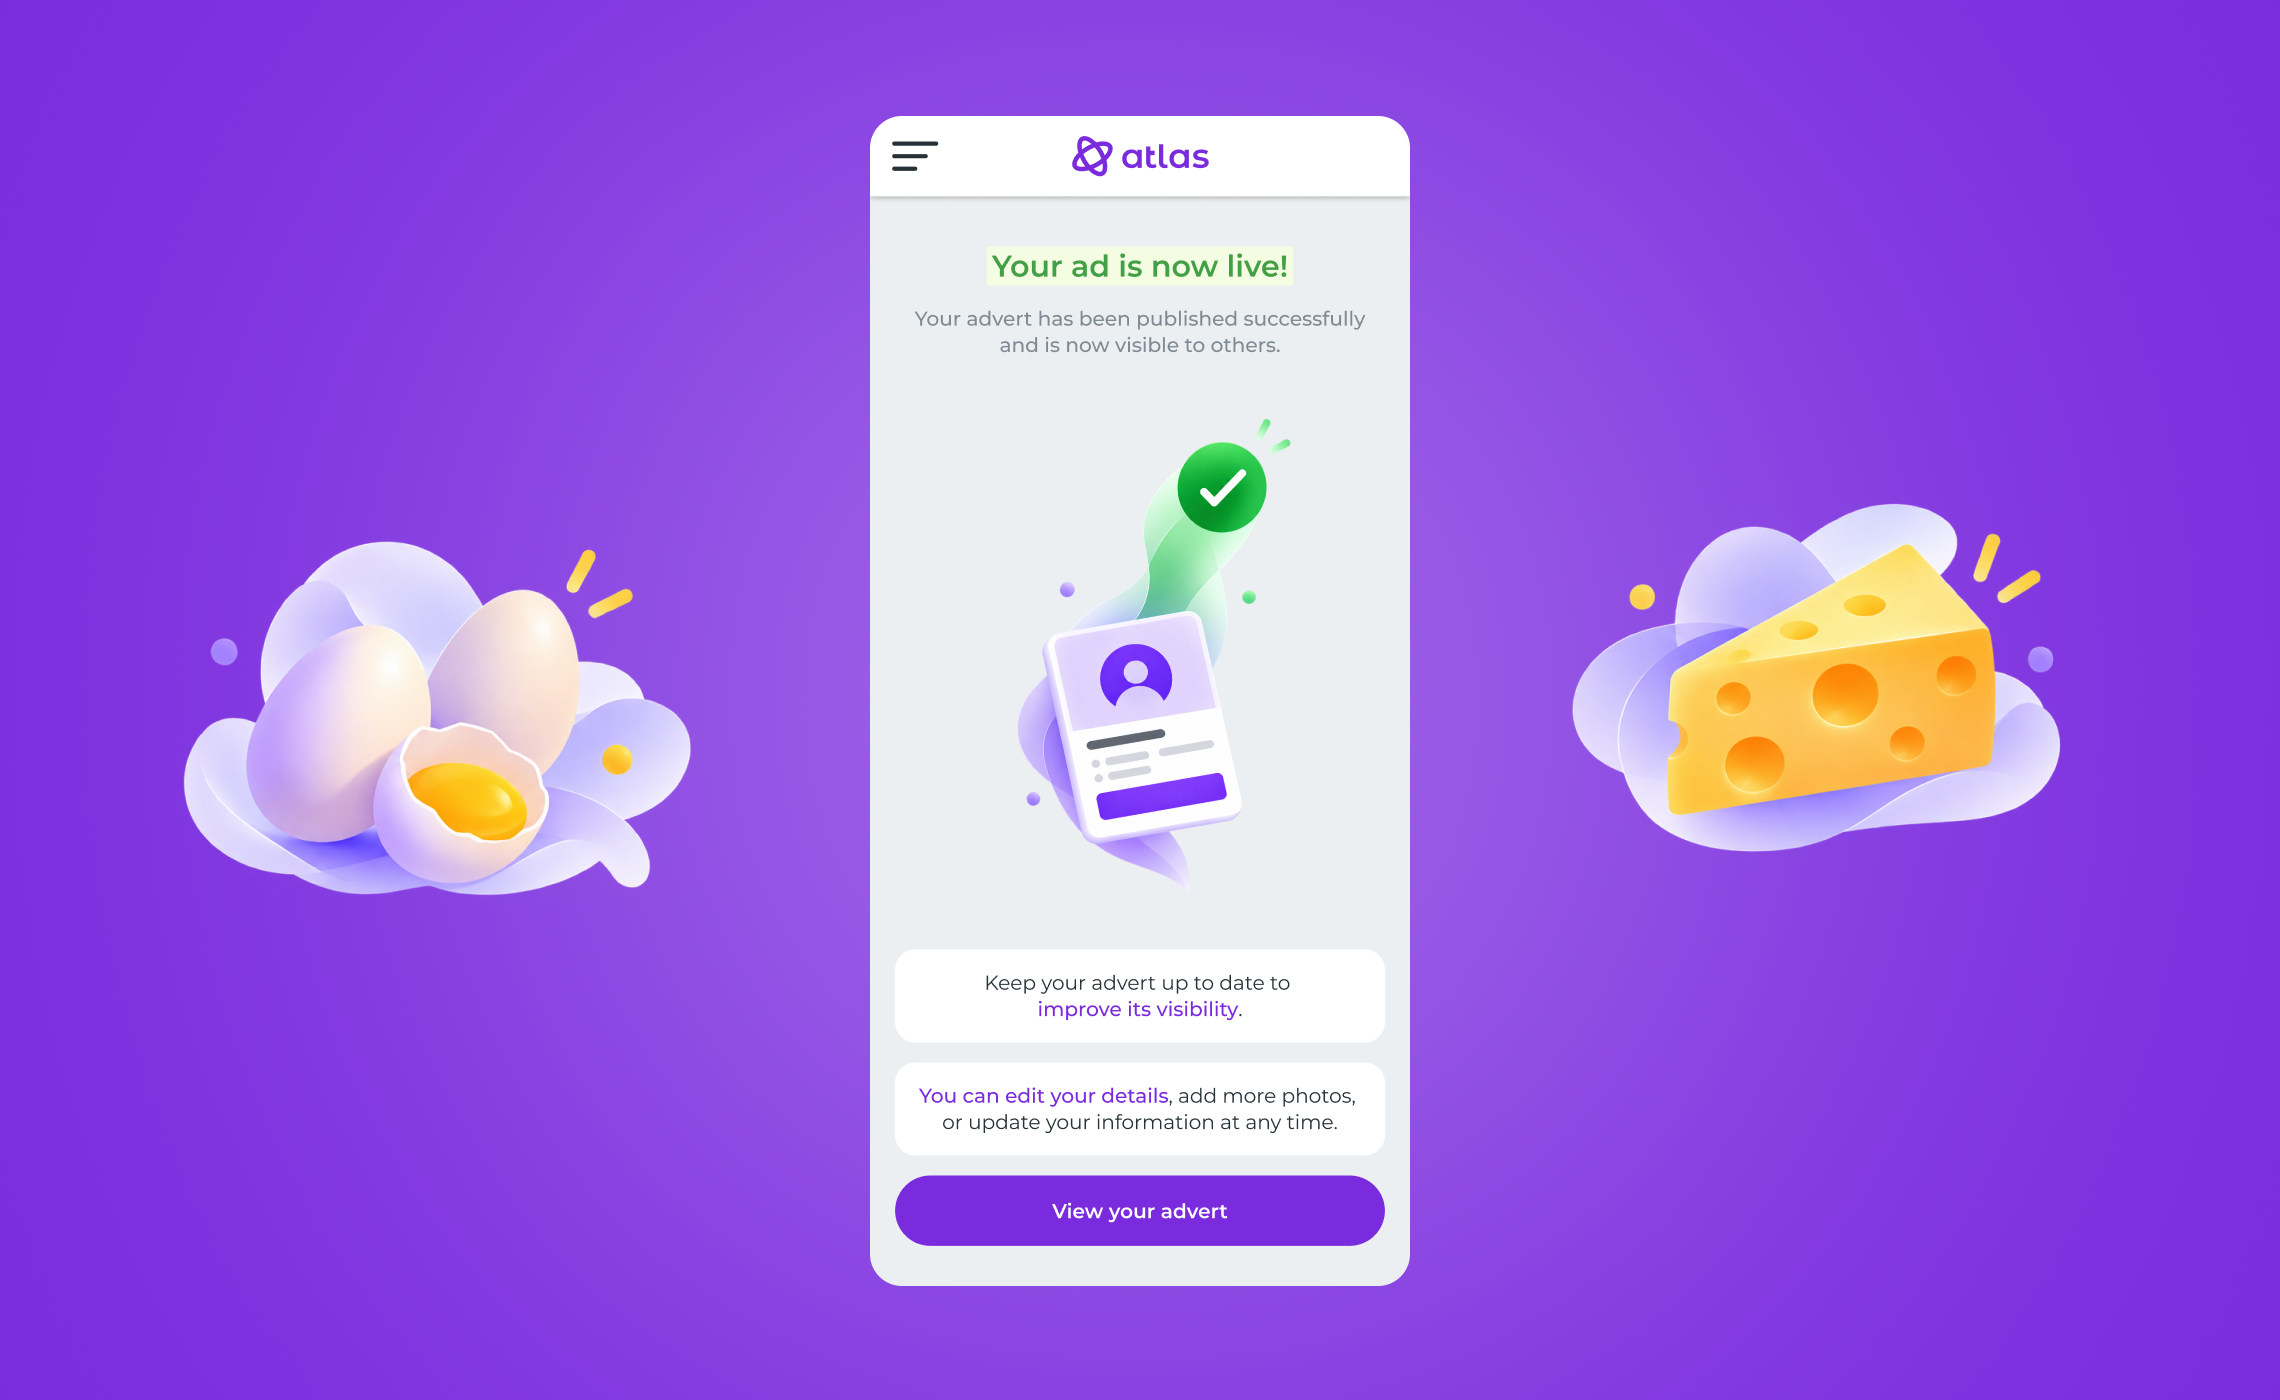
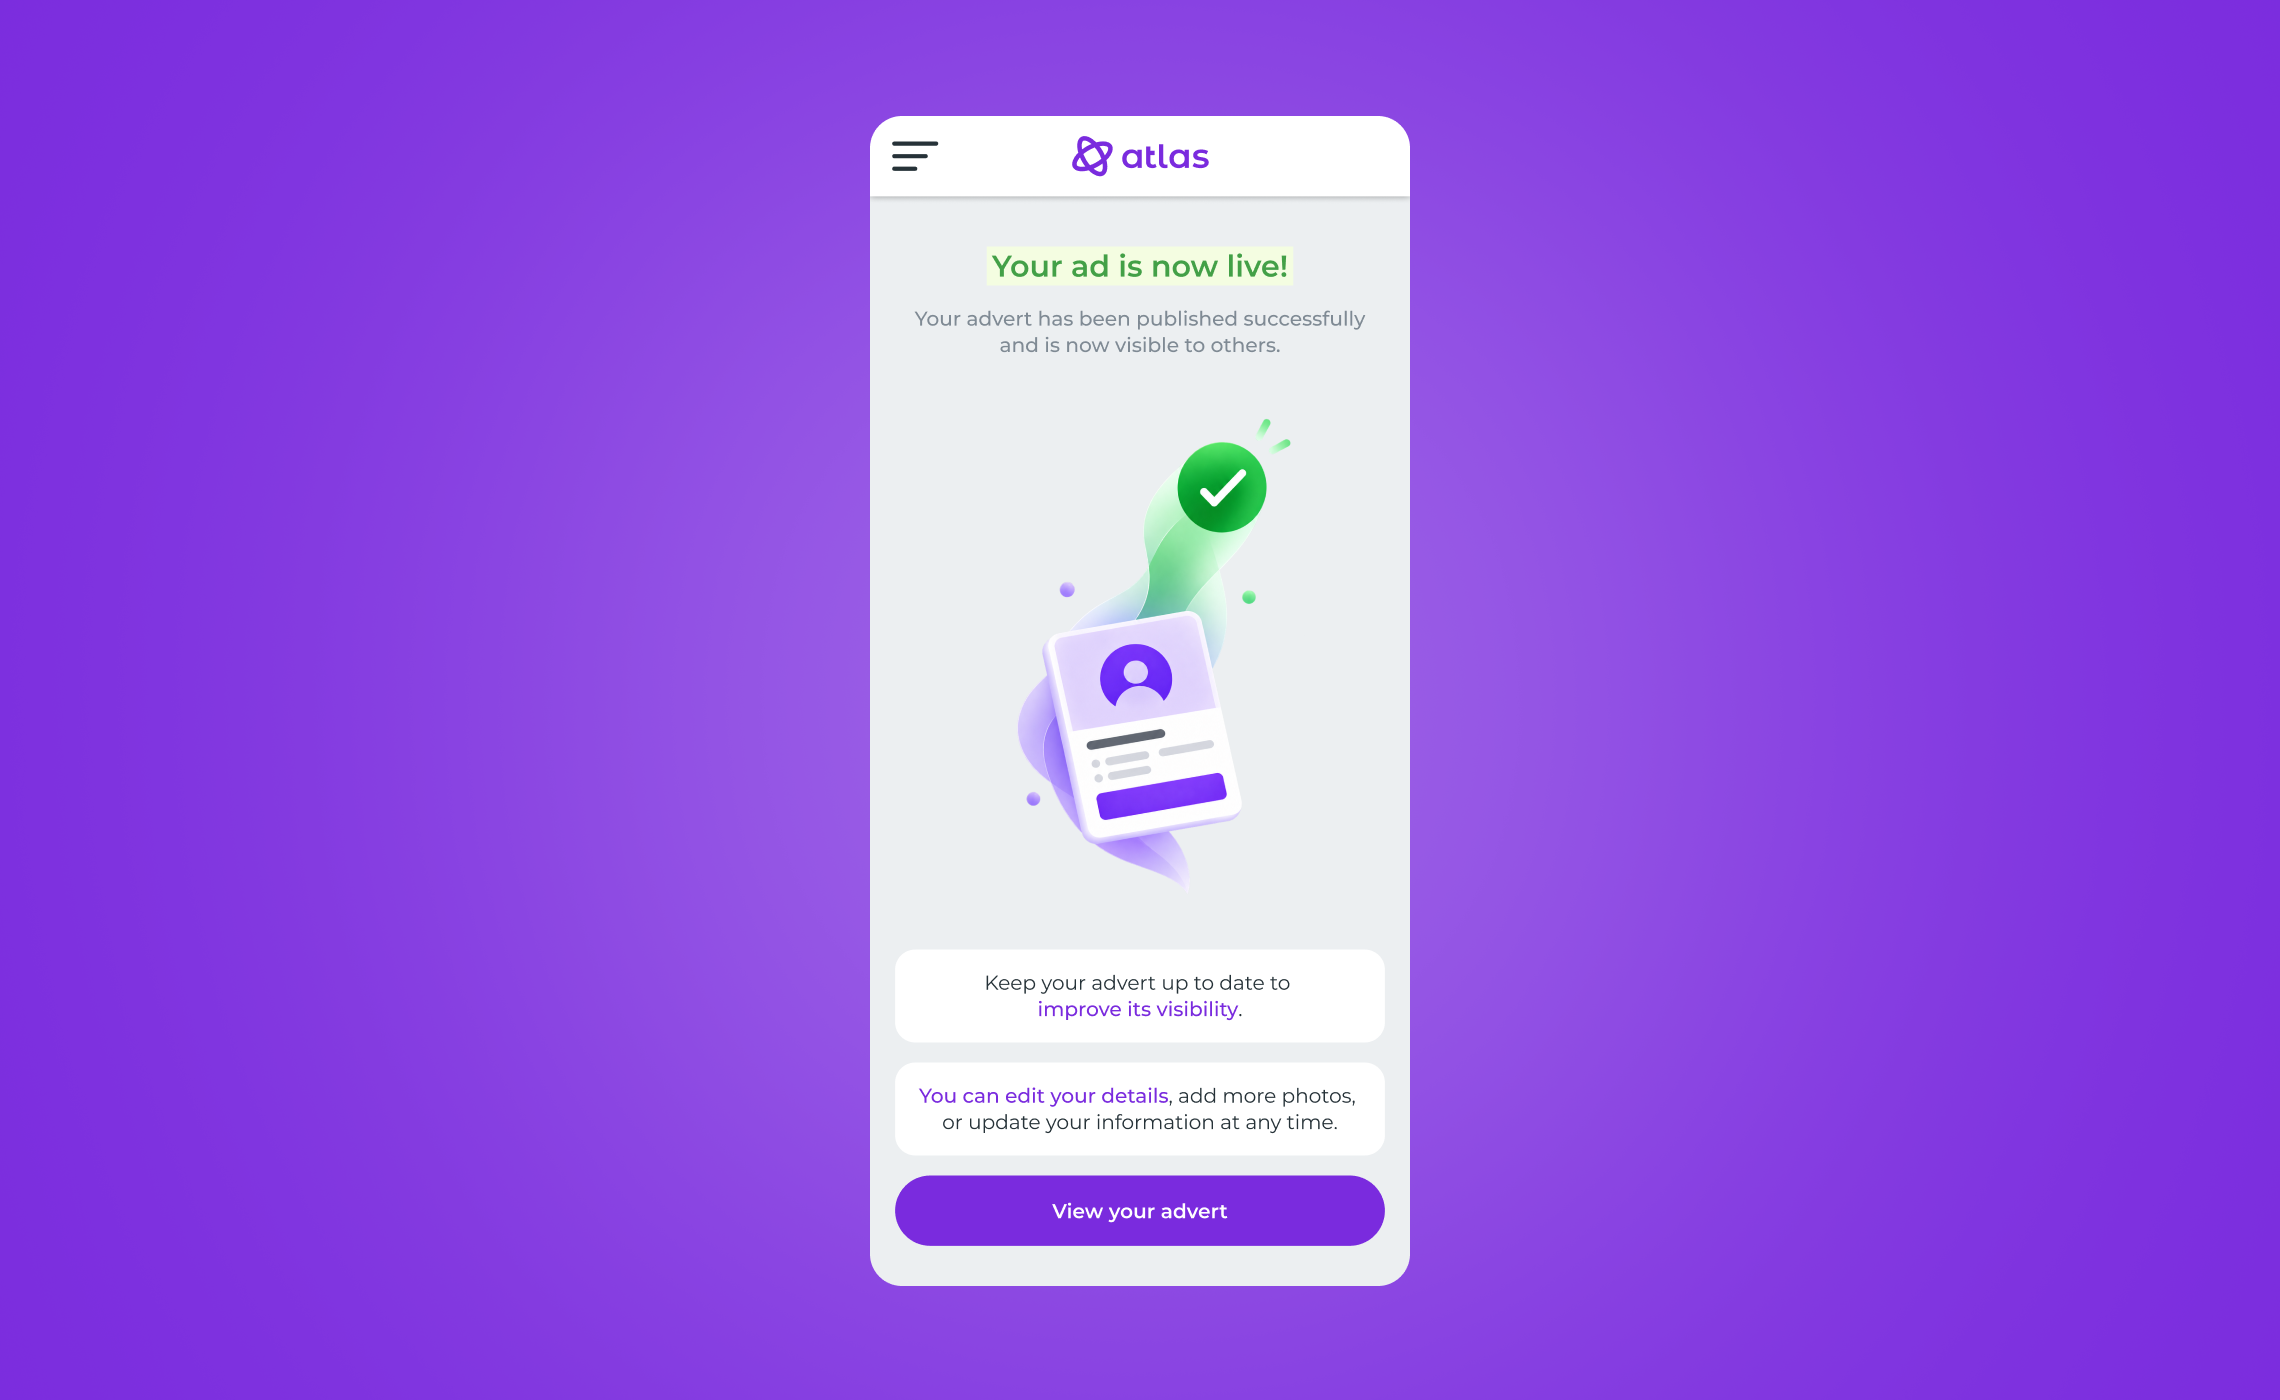
Update final Atlas case image from supplied original

Changed region(s): [[0.0623, 0.3686, 0.3114, 0.645], [0.6851, 0.3379, 0.9031, 0.6143]]

diff --git a/es/case-atlas.html b/es/case-atlas.html
@@ -124,7 +124,7 @@
         <figure><a class="case-media-link" href="assets/images/Atlas/Case-Atlas-02.png?v=656d0b42af70" aria-haspopup="dialog" aria-controls="case-image-viewer" aria-label="Ampliar: Pantalla de información básica del registro de Atlas, con un campo de nombre profesional y una ilustración decorativa." title="Ampliar imagen"><img src="assets/images/Atlas/Case-Atlas-02.png?v=656d0b42af70" alt="Pantalla de información básica del registro de Atlas, con un campo de nombre profesional y una ilustración decorativa." width="2280" height="1400" loading="lazy"></a></figure>
         <figure><a class="case-media-link" href="assets/images/Atlas/Case-Atlas-03.png?v=ac22aab2869a" aria-haspopup="dialog" aria-controls="case-image-viewer" aria-label="Ampliar: Pantallas de Atlas para seleccionar servicios, moneda y tarifas durante el registro internacional." title="Ampliar imagen"><img src="assets/images/Atlas/Case-Atlas-03.png?v=ac22aab2869a" alt="Pantallas de Atlas para seleccionar servicios, moneda y tarifas durante el registro internacional." width="2280" height="1400" loading="lazy"></a></figure>
         <figure><a class="case-media-link" href="assets/images/Atlas/Case-Atlas-04.png?v=606194017bc4" aria-haspopup="dialog" aria-controls="case-image-viewer" aria-label="Ampliar: Pantallas de Atlas para seleccionar la identidad de género y completar el registro." title="Ampliar imagen"><img src="assets/images/Atlas/Case-Atlas-04.png?v=606194017bc4" alt="Pantallas de Atlas para seleccionar la identidad de género y completar el registro." width="2280" height="1400" loading="lazy"></a></figure>
-        <figure><a class="case-media-link" href="assets/images/Atlas/Case-Atlas-05.png?v=b730310460e8" aria-haspopup="dialog" aria-controls="case-image-viewer" aria-label="Ampliar: Confirmación de publicación de un anuncio en Atlas, con indicaciones para completar el perfil y acceder a la página personal." title="Ampliar imagen"><img src="assets/images/Atlas/Case-Atlas-05.png?v=b730310460e8" alt="Confirmación de publicación de un anuncio en Atlas, con indicaciones para completar el perfil y acceder a la página personal." width="2280" height="1400" loading="lazy"></a></figure>
+        <figure><a class="case-media-link" href="assets/images/Atlas/Case-Atlas-05.png?v=4de283d6bb65" aria-haspopup="dialog" aria-controls="case-image-viewer" aria-label="Ampliar: Confirmación de publicación de un anuncio en Atlas, con indicaciones para completar el perfil y acceder a la página personal." title="Ampliar imagen"><img src="assets/images/Atlas/Case-Atlas-05.png?v=4de283d6bb65" alt="Confirmación de publicación de un anuncio en Atlas, con indicaciones para completar el perfil y acceder a la página personal." width="2280" height="1400" loading="lazy"></a></figure>
       </section>
     </main>
 

diff --git a/case-atlas.html b/case-atlas.html
@@ -123,7 +123,7 @@
         <figure><a class="case-media-link" href="assets/images/Atlas/Case-Atlas-02.png?v=656d0b42af70" aria-haspopup="dialog" aria-controls="case-image-viewer" aria-label="Ampliar: Tela de informações básicas do cadastro Atlas, com campo de nome profissional e ilustração decorativa." title="Ampliar imagem"><img src="assets/images/Atlas/Case-Atlas-02.png?v=656d0b42af70" alt="Tela de informações básicas do cadastro Atlas, com campo de nome profissional e ilustração decorativa." width="2280" height="1400" loading="lazy"></a></figure>
         <figure><a class="case-media-link" href="assets/images/Atlas/Case-Atlas-03.png?v=ac22aab2869a" aria-haspopup="dialog" aria-controls="case-image-viewer" aria-label="Ampliar: Telas Atlas para selecionar serviços, moeda e valores durante o cadastro internacional." title="Ampliar imagem"><img src="assets/images/Atlas/Case-Atlas-03.png?v=ac22aab2869a" alt="Telas Atlas para selecionar serviços, moeda e valores durante o cadastro internacional." width="2280" height="1400" loading="lazy"></a></figure>
         <figure><a class="case-media-link" href="assets/images/Atlas/Case-Atlas-04.png?v=606194017bc4" aria-haspopup="dialog" aria-controls="case-image-viewer" aria-label="Ampliar: Telas Atlas para selecionar a identidade de gênero e concluir o cadastro." title="Ampliar imagem"><img src="assets/images/Atlas/Case-Atlas-04.png?v=606194017bc4" alt="Telas Atlas para selecionar a identidade de gênero e concluir o cadastro." width="2280" height="1400" loading="lazy"></a></figure>
-        <figure><a class="case-media-link" href="assets/images/Atlas/Case-Atlas-05.png?v=b730310460e8" aria-haspopup="dialog" aria-controls="case-image-viewer" aria-label="Ampliar: Confirmação de anúncio publicado no Atlas, com orientações para completar o perfil e acessar a página pessoal." title="Ampliar imagem"><img src="assets/images/Atlas/Case-Atlas-05.png?v=b730310460e8" alt="Confirmação de anúncio publicado no Atlas, com orientações para completar o perfil e acessar a página pessoal." width="2280" height="1400" loading="lazy"></a></figure>
+        <figure><a class="case-media-link" href="assets/images/Atlas/Case-Atlas-05.png?v=4de283d6bb65" aria-haspopup="dialog" aria-controls="case-image-viewer" aria-label="Ampliar: Confirmação de anúncio publicado no Atlas, com orientações para completar o perfil e acessar a página pessoal." title="Ampliar imagem"><img src="assets/images/Atlas/Case-Atlas-05.png?v=4de283d6bb65" alt="Confirmação de anúncio publicado no Atlas, com orientações para completar o perfil e acessar a página pessoal." width="2280" height="1400" loading="lazy"></a></figure>
       </section>
     </main>
 

diff --git a/en/case-atlas.html b/en/case-atlas.html
@@ -124,7 +124,7 @@
         <figure><a class="case-media-link" href="assets/images/Atlas/Case-Atlas-02.png?v=656d0b42af70" aria-haspopup="dialog" aria-controls="case-image-viewer" aria-label="Enlarge: Atlas registration basic information screen with a professional name field and a decorative illustration." title="Enlarge image"><img src="assets/images/Atlas/Case-Atlas-02.png?v=656d0b42af70" alt="Atlas registration basic information screen with a professional name field and a decorative illustration." width="2280" height="1400" loading="lazy"></a></figure>
         <figure><a class="case-media-link" href="assets/images/Atlas/Case-Atlas-03.png?v=ac22aab2869a" aria-haspopup="dialog" aria-controls="case-image-viewer" aria-label="Enlarge: Atlas screens for selecting services, currency, and rates during international registration." title="Enlarge image"><img src="assets/images/Atlas/Case-Atlas-03.png?v=ac22aab2869a" alt="Atlas screens for selecting services, currency, and rates during international registration." width="2280" height="1400" loading="lazy"></a></figure>
         <figure><a class="case-media-link" href="assets/images/Atlas/Case-Atlas-04.png?v=606194017bc4" aria-haspopup="dialog" aria-controls="case-image-viewer" aria-label="Enlarge: Atlas screens for selecting gender identity and completing registration." title="Enlarge image"><img src="assets/images/Atlas/Case-Atlas-04.png?v=606194017bc4" alt="Atlas screens for selecting gender identity and completing registration." width="2280" height="1400" loading="lazy"></a></figure>
-        <figure><a class="case-media-link" href="assets/images/Atlas/Case-Atlas-05.png?v=b730310460e8" aria-haspopup="dialog" aria-controls="case-image-viewer" aria-label="Enlarge: Atlas ad publication confirmation with guidance on completing the profile and accessing the personal page." title="Enlarge image"><img src="assets/images/Atlas/Case-Atlas-05.png?v=b730310460e8" alt="Atlas ad publication confirmation with guidance on completing the profile and accessing the personal page." width="2280" height="1400" loading="lazy"></a></figure>
+        <figure><a class="case-media-link" href="assets/images/Atlas/Case-Atlas-05.png?v=4de283d6bb65" aria-haspopup="dialog" aria-controls="case-image-viewer" aria-label="Enlarge: Atlas ad publication confirmation with guidance on completing the profile and accessing the personal page." title="Enlarge image"><img src="assets/images/Atlas/Case-Atlas-05.png?v=4de283d6bb65" alt="Atlas ad publication confirmation with guidance on completing the profile and accessing the personal page." width="2280" height="1400" loading="lazy"></a></figure>
       </section>
     </main>
 
